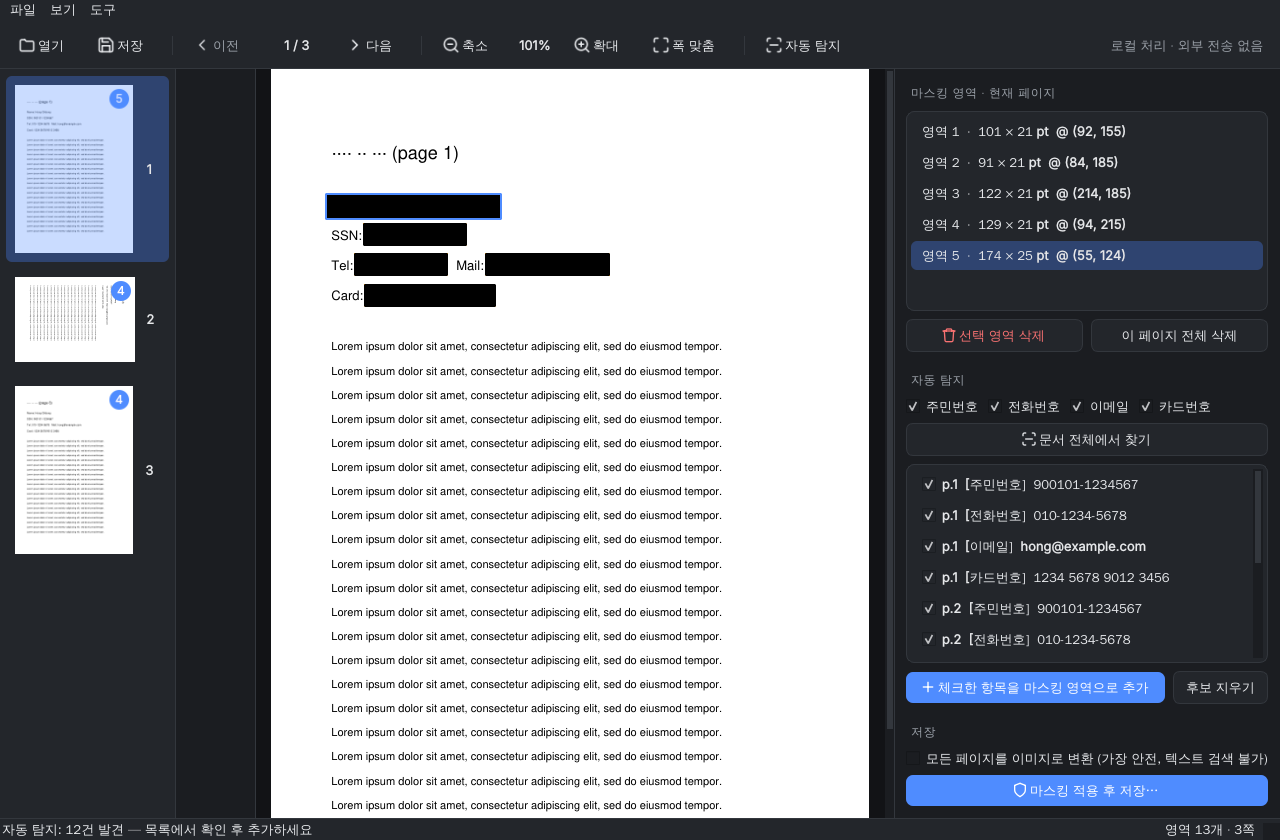
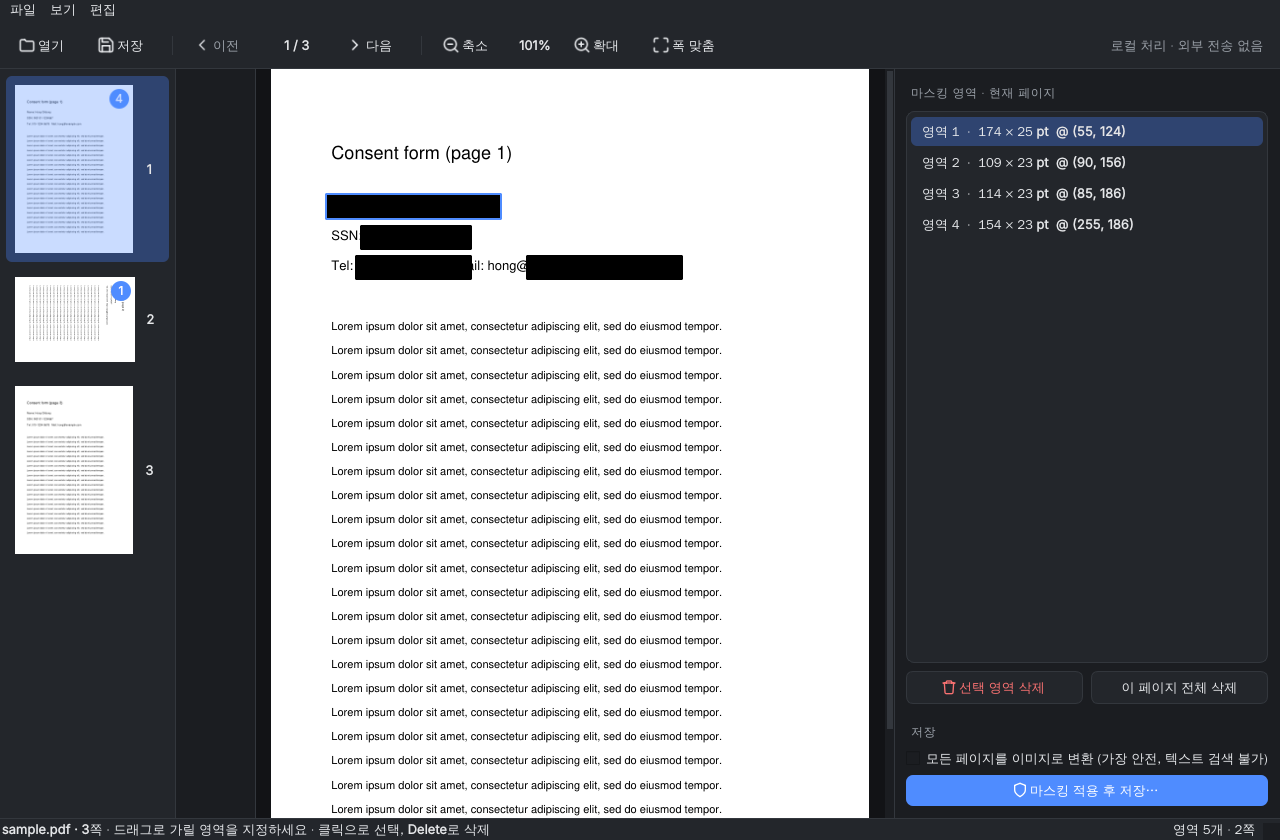
자동 탐지 기능 제거 — 수동 영역 지정만으로 단순화
Claude-Session: https://claude.ai/code/session_01BsTnYUSCAuBxEr9UdyeKY8

diff --git a/masker/gui.py b/masker/gui.py
@@ -49,7 +49,6 @@ from PySide6.QtWidgets import (
 
 from masker import theme
 from masker.core import Region, display_to_page, page_to_display, redact_pdf
-from masker.detect import PATTERNS, Detection, detect_document
 
 APP_NAME = "PDF Masker"
 ZOOM_STEPS = [0.5, 0.75, 1.0, 1.25, 1.5, 2.0, 2.5, 3.0, 4.0]
@@ -66,23 +65,19 @@ class PageCanvas(QLabel):
         self._start: QPoint | None = None
         self._current: QPoint | None = None
         self._regions: list[QRect] = []
-        self._candidates: list[QRect] = []
         self._selected = -1
         self.setAlignment(Qt.AlignmentFlag.AlignLeft | Qt.AlignmentFlag.AlignTop)
         self.setCursor(Qt.CursorShape.CrossCursor)
 
-    def set_content(self, pixmap: QPixmap, regions: list[QRect], selected: int,
-                    candidates: list[QRect] | None = None) -> None:
+    def set_content(self, pixmap: QPixmap, regions: list[QRect], selected: int) -> None:
         self._regions = regions
-        self._candidates = candidates or []
         self._selected = selected
         self.setPixmap(pixmap)
         self.setFixedSize(pixmap.size())
         self.update()
 
-    def set_overlays(self, regions: list[QRect], selected: int, candidates: list[QRect] | None = None) -> None:
+    def set_overlays(self, regions: list[QRect], selected: int) -> None:
         self._regions = regions
-        self._candidates = candidates or []
         self._selected = selected
         self.update()
 
@@ -119,10 +114,6 @@ class PageCanvas(QLabel):
         t = theme.tokens()
         painter = QPainter(self)
         painter.setRenderHint(QPainter.RenderHint.Antialiasing)
-        for r in self._candidates:  # 자동 탐지 후보: 주황 점선
-            painter.setPen(QPen(QColor("#f59e0b"), 2, Qt.PenStyle.DashLine))
-            painter.setBrush(theme.qcolor("#f59e0b", 50))
-            painter.drawRect(r)
         for i, r in enumerate(self._regions):  # 확정 영역: 저장 결과와 같은 불투명 검정
             selected = i == self._selected
             painter.setPen(QPen(QColor(t["accent"]) if selected else QColor(t["mask"]), 2))
@@ -151,7 +142,6 @@ class MainWindow(QMainWindow):
         self._fit_width = True
         # 영역은 회전 전 PDF 포인트 좌표로 보관 -> 확대/축소·페이지 회전과 무관
         self.regions: dict[int, list[Region]] = {}
-        self.candidates: list[Detection] = []
         self._thumb_cache: dict[int, QPixmap] = {}
 
         self._build_ui()
@@ -199,26 +189,6 @@ class MainWindow(QMainWindow):
         self.btn_del.clicked.connect(self._delete_selected)
         self.btn_clear.clicked.connect(self._clear_page)
 
-        self.kind_checks: dict[str, QCheckBox] = {}
-        kinds_row = QHBoxLayout()
-        kinds_row.setSpacing(10)
-        for kind in PATTERNS:
-            cb = QCheckBox(kind)
-            cb.setChecked(True)
-            self.kind_checks[kind] = cb
-            kinds_row.addWidget(cb)
-        kinds_row.addStretch(1)
-        self.btn_detect = QPushButton("문서 전체에서 찾기")
-        self.btn_detect.clicked.connect(self._run_detect)
-        self.candidate_list = QListWidget()
-        self.candidate_list.itemChanged.connect(lambda _: self._refresh_canvas_overlays())
-        self.candidate_list.currentRowChanged.connect(self._on_candidate_selected)
-        self.btn_add_candidates = QPushButton("체크한 항목을 마스킹 영역으로 추가")
-        self.btn_add_candidates.setObjectName("primary")
-        self.btn_add_candidates.clicked.connect(self._add_checked_candidates)
-        self.btn_clear_candidates = QPushButton("후보 지우기")
-        self.btn_clear_candidates.clicked.connect(self._clear_candidates)
-
         self.rasterize = QCheckBox("모든 페이지를 이미지로 변환 (가장 안전, 텍스트 검색 불가)")
         self.btn_save = QPushButton("마스킹 적용 후 저장…")
         self.btn_save.setObjectName("primary")
@@ -233,15 +203,6 @@ class MainWindow(QMainWindow):
         row.addWidget(self.btn_del)
         row.addWidget(self.btn_clear)
         side.addLayout(row)
-        side.addSpacing(6)
-        side.addWidget(self._heading("자동 탐지"))
-        side.addLayout(kinds_row)
-        side.addWidget(self.btn_detect)
-        side.addWidget(self.candidate_list, 2)
-        row2 = QHBoxLayout()
-        row2.addWidget(self.btn_add_candidates, 1)
-        row2.addWidget(self.btn_clear_candidates)
-        side.addLayout(row2)
         side.addSpacing(6)
         side.addWidget(self._heading("저장"))
         side.addWidget(self.rasterize)
@@ -317,7 +278,6 @@ class MainWindow(QMainWindow):
         self.act_zoom_in = act("확대", lambda: self._zoom_step(+1), QKeySequence.StandardKey.ZoomIn)
         self.act_zoom_out = act("축소", lambda: self._zoom_step(-1), QKeySequence.StandardKey.ZoomOut)
         self.act_fit = act("폭 맞춤", self._fit_to_width, QKeySequence("Ctrl+0"))
-        self.act_detect = act("자동 탐지", self._run_detect, QKeySequence("Ctrl+F"))
         self.act_delete = act("영역 삭제", self._delete_selected, QKeySequence(Qt.Key.Key_Delete))
         self.act_quit = act("종료", self.close, QKeySequence.StandardKey.Quit)
         self.addAction(self.act_delete)
@@ -341,8 +301,6 @@ class MainWindow(QMainWindow):
         tb.addWidget(self.zoom_label)
         tb.addAction(self.act_zoom_in)
         tb.addAction(self.act_fit)
-        tb.addSeparator()
-        tb.addAction(self.act_detect)
         spacer = QWidget()
         spacer.setSizePolicy(spacer.sizePolicy().horizontalPolicy().Expanding, spacer.sizePolicy().verticalPolicy())
         tb.addWidget(spacer)
@@ -358,8 +316,7 @@ class MainWindow(QMainWindow):
         m = self.menuBar().addMenu("보기")
         for a in (self.act_zoom_in, self.act_zoom_out, self.act_fit, self.act_prev, self.act_next):
             m.addAction(a)
-        m = self.menuBar().addMenu("도구")
-        m.addAction(self.act_detect)
+        m = self.menuBar().addMenu("편집")
         m.addAction(self.act_delete)
 
     def _apply_theme(self) -> None:
@@ -374,10 +331,7 @@ class MainWindow(QMainWindow):
         self.act_zoom_in.setIcon(theme.icon("zoom_in", c))
         self.act_zoom_out.setIcon(theme.icon("zoom_out", c))
         self.act_fit.setIcon(theme.icon("fit", c))
-        self.act_detect.setIcon(theme.icon("scan", c))
         self.btn_del.setIcon(theme.icon("trash", t["danger"], 16))
-        self.btn_detect.setIcon(theme.icon("scan", c, 16))
-        self.btn_add_candidates.setIcon(theme.icon("plus", t["accent_fg"], 16))
         self.btn_save.setIcon(theme.icon("shield", t["accent_fg"], 16))
         self.welcome_icon.setPixmap(theme.icon("shield", t["accent"], 56).pixmap(56, 56))
         self.canvas.update()
@@ -433,16 +387,14 @@ class MainWindow(QMainWindow):
         self.pdf_path = Path(path)
         self.password = password
         self.regions = {}
-        self.candidates = []
         self._thumb_cache = {}
         self.page_index = 0
-        self.candidate_list.clear()
         self.center.setCurrentWidget(self.scroll)
         self.setWindowTitle(f"{self.pdf_path.name} — {APP_NAME}")
         self._populate_thumbs()
         self._fit_width = True
         self._fit_to_width()
-        self.status_left.setText(f"{self.pdf_path.name} · {doc.page_count}쪽 · 드래그로 가릴 영역을 지정하세요")
+        self.status_left.setText(f"{self.pdf_path.name} · {doc.page_count}쪽 · 드래그로 가릴 영역을 지정하세요 · 클릭으로 선택, Delete로 삭제")
 
     def _render_pixmap(self, zoom: float) -> QPixmap:
         assert self.pdf is not None
@@ -499,24 +451,11 @@ class MainWindow(QMainWindow):
             out.append(QRect(round(x0), round(y0), round(x1 - x0), round(y1 - y0)))
         return out
 
-    def _page_candidates_display(self) -> list[QRect]:
-        assert self.pdf is not None
-        page = self.pdf[self.page_index]
-        out = []
-        for i, d in enumerate(self.candidates):
-            item = self.candidate_list.item(i)
-            if d.page != self.page_index or item is None or item.checkState() != Qt.CheckState.Checked:
-                continue
-            x0, y0, x1, y1 = page_to_display(page, d.region, self.zoom)
-            out.append(QRect(round(x0), round(y0), round(x1 - x0), round(y1 - y0)))
-        return out
-
     def _show_page(self, selected: int = -1) -> None:
         if self.pdf is None:
             self._update_controls()
             return
-        self.canvas.set_content(self._render_pixmap(self.zoom), self._page_regions_display(), selected,
-                                self._page_candidates_display())
+        self.canvas.set_content(self._render_pixmap(self.zoom), self._page_regions_display(), selected)
         self._refresh_list(selected)
         self.page_label.setText(f"{self.page_index + 1} / {self.pdf.page_count}")
         self.zoom_label.setText(f"{round(self.zoom * 100)}%")
@@ -530,7 +469,7 @@ class MainWindow(QMainWindow):
         if self.pdf is None:
             return
         sel = self.region_list.currentRow() if selected is None else selected
-        self.canvas.set_overlays(self._page_regions_display(), sel, self._page_candidates_display())
+        self.canvas.set_overlays(self._page_regions_display(), sel)
 
     def _refresh_list(self, selected: int = -1) -> None:
         self.region_list.blockSignals(True)
@@ -619,71 +558,6 @@ class MainWindow(QMainWindow):
         self._refresh_thumb(self.page_index)
         self._update_controls()
 
-    # ---------- 자동 탐지 ----------
-    def _run_detect(self) -> None:
-        if self.pdf is None:
-            return
-        kinds = {k for k, cb in self.kind_checks.items() if cb.isChecked()}
-        if not kinds:
-            QMessageBox.information(self, "자동 탐지", "찾을 종류를 하나 이상 선택하세요.")
-            return
-        QApplication.setOverrideCursor(Qt.CursorShape.WaitCursor)
-        try:
-            self.candidates = detect_document(self.pdf, kinds)
-        finally:
-            QApplication.restoreOverrideCursor()
-        self.candidate_list.blockSignals(True)
-        self.candidate_list.clear()
-        for d in self.candidates:
-            item = QListWidgetItem(f"p.{d.page + 1}  [{d.kind}]  {d.text}")
-            item.setFlags(item.flags() | Qt.ItemFlag.ItemIsUserCheckable)
-            item.setCheckState(Qt.CheckState.Checked)
-            self.candidate_list.addItem(item)
-        self.candidate_list.blockSignals(False)
-        self._refresh_canvas_overlays()
-        self._update_controls()
-        n = len(self.candidates)
-        self.status_left.setText(
-            f"자동 탐지: {n}건 발견 — 목록에서 확인 후 추가하세요" if n else
-            "자동 탐지: 해당 패턴을 찾지 못했습니다 (스캔본은 글자 인식이 필요합니다)"
-        )
-
-    def _on_candidate_selected(self, row: int) -> None:
-        if 0 <= row < len(self.candidates):
-            d = self.candidates[row]
-            if d.page != self.page_index:
-                self._go_page(d.page)
-
-    def _add_checked_candidates(self) -> None:
-        added = 0
-        keep: list[Detection] = []
-        for i, d in enumerate(self.candidates):
-            item = self.candidate_list.item(i)
-            if item is not None and item.checkState() == Qt.CheckState.Checked:
-                self.regions.setdefault(d.page, []).append(d.region)
-                added += 1
-            else:
-                keep.append(d)
-        self.candidates = keep
-        self.candidate_list.blockSignals(True)
-        self.candidate_list.clear()
-        for d in keep:
-            item = QListWidgetItem(f"p.{d.page + 1}  [{d.kind}]  {d.text}")
-            item.setFlags(item.flags() | Qt.ItemFlag.ItemIsUserCheckable)
-            item.setCheckState(Qt.CheckState.Unchecked)
-            self.candidate_list.addItem(item)
-        self.candidate_list.blockSignals(False)
-        for i in range(self.thumbs.count()):
-            self._refresh_thumb(i)
-        self._show_page()
-        self.status_left.setText(f"{added}개 영역을 추가했습니다.")
-
-    def _clear_candidates(self) -> None:
-        self.candidates = []
-        self.candidate_list.clear()
-        self._refresh_canvas_overlays()
-        self._update_controls()
-
     # ---------- 저장 ----------
     def _total_regions(self) -> int:
         return sum(len(v) for v in self.regions.values())
@@ -731,13 +605,10 @@ class MainWindow(QMainWindow):
         n = self.pdf.page_count if has else 0
         self.act_prev.setEnabled(has and self.page_index > 0)
         self.act_next.setEnabled(has and self.page_index < n - 1)
-        for a in (self.act_save, self.act_zoom_in, self.act_zoom_out, self.act_fit, self.act_detect):
+        for a in (self.act_save, self.act_zoom_in, self.act_zoom_out, self.act_fit):
             a.setEnabled(has)
         self.btn_del.setEnabled(has and bool(self.regions.get(self.page_index)))
         self.btn_clear.setEnabled(has and bool(self.regions.get(self.page_index)))
-        self.btn_detect.setEnabled(has)
-        self.btn_add_candidates.setEnabled(has and bool(self.candidates))
-        self.btn_clear_candidates.setEnabled(has and bool(self.candidates))
         self.btn_save.setEnabled(has and self._total_regions() > 0)
         self.rasterize.setEnabled(has)
         total = self._total_regions()

diff --git a/masker/theme.py b/masker/theme.py
@@ -89,10 +89,8 @@ _ICONS = {
     "fit": '<path d="M8 3H5a2 2 0 0 0-2 2v3M21 8V5a2 2 0 0 0-2-2h-3M3 16v3a2 2 0 0 0 2 2h3M16 21h3a2 2 0 0 0 2-2v-3"/>',
     "prev": '<path d="m15 18-6-6 6-6"/>',
     "next": '<path d="m9 18 6-6-6-6"/>',
-    "scan": '<path d="M3 7V5a2 2 0 0 1 2-2h2M17 3h2a2 2 0 0 1 2 2v2M21 17v2a2 2 0 0 1-2 2h-2M7 21H5a2 2 0 0 1-2-2v-2M7 12h10"/>',
     "trash": '<path d="M3 6h18M8 6V4a1 1 0 0 1 1-1h6a1 1 0 0 1 1 1v2M19 6l-1 14a2 2 0 0 1-2 2H8a2 2 0 0 1-2-2L5 6"/>',
     "shield": '<path d="M12 22s8-4 8-10V5l-8-3-8 3v7c0 6 8 10 8 10z"/>',
-    "plus": '<path d="M12 5v14M5 12h14"/>',
 }
 
 
